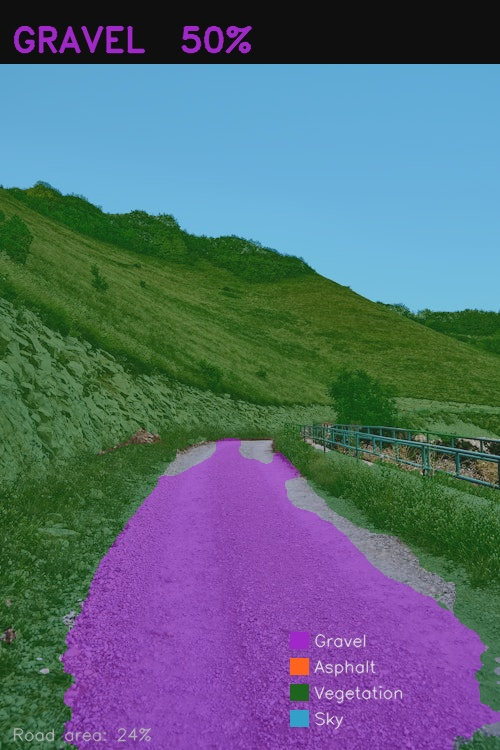
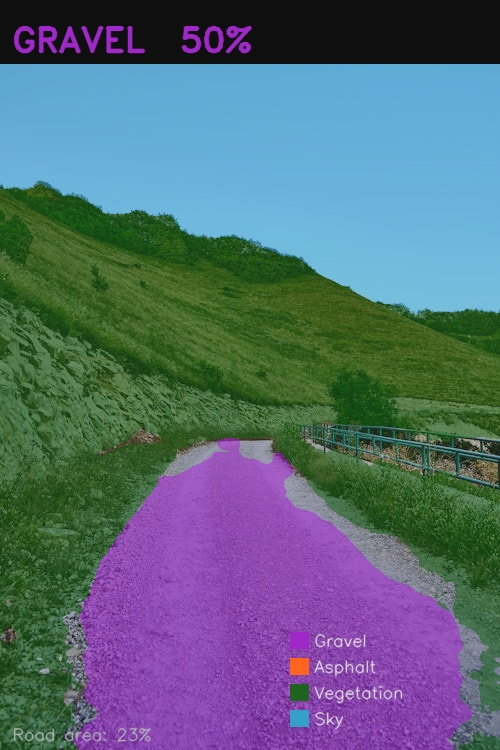
fix: 將 gradient_taper 改為 monotonic_taper 修正柏油路1視覺遮罩
- 以 monotonic_taper_mask 取代 gradient_taper_mask：從底部往上掃描，
  道路寬度只能遞減（符合透視原理），修正下雨天潮濕路面造成的矩形色塊問題
- 套用方式改為無條件：對已有自然漸縮的圖片幾乎無影響（差距 < 0.2%）
- 同步更新 asphalt_road_1 測試圖片與全部輸出結果

diff --git a/road_detection.py b/road_detection.py
@@ -86,35 +86,114 @@ def run_segformer(image_path, processor, model, device):
     return seg_map
 
 
-def _gradient_taper_mask(road_mask: np.ndarray, upper_cut: int,
-                          top_frac: float = 0.20) -> np.ndarray:
+def _monotonic_taper_mask(road_mask: np.ndarray, upper_cut: int,
+                           smooth_alpha: float = 0.3) -> np.ndarray:
     """
-    Create a perspective-tapered version of road_mask.
-    Each row keeps the same centre as the SegFormer mask, but the width
-    shrinks linearly from 100 % at the bottom to `top_frac` % at upper_cut.
+    Perspective-correct visual mask: scan bottom→top enforcing that road
+    half-width can only DECREASE (road narrows toward the vanishing point).
+    Center position is exponentially smoothed to follow gentle road curves.
 
-    This gives the natural 'vanishing road' look without relying on lane markings.
+    This naturally handles wide/flat SegFormer detections (e.g. wet roads
+    where SegFormer sees full-width road at every row) without producing
+    the rectangular artefact that a linear gradient taper creates.
     """
     H, W = road_mask.shape
-    tapered = np.zeros_like(road_mask)
+    result = np.zeros_like(road_mask)
 
-    for row in range(upper_cut, H):
+    prev_hw  = None        # previous half-width (None = not yet started)
+    prev_ctr = W / 2.0
+
+    for row in range(H - 1, upper_cut - 1, -1):       # bottom → top
         cols = np.where(road_mask[row])[0]
-        if len(cols) == 0:
+
+        if len(cols) < 10:
+            # No road pixels here; if already tracking, gently shrink
+            if prev_hw is not None:
+                prev_hw = max(5.0, prev_hw * 0.94)    # ~6 % narrower per row
+                x0 = max(0,     int(prev_ctr - prev_hw))
+                x1 = min(W - 1, int(prev_ctr + prev_hw))
+                result[row, x0:x1 + 1] = True
             continue
-        c_min, c_max = int(cols[0]), int(cols[-1])
-        center   = (c_min + c_max) / 2.0
-        half_w   = (c_max - c_min) / 2.0
 
-        # t = 0 at upper_cut (top), t = 1 at H-1 (bottom)
-        t = (row - upper_cut) / max(1, H - 1 - upper_cut)
-        taper_hw = half_w * (top_frac + (1.0 - top_frac) * t)
+        seg_hw  = (int(cols[-1]) - int(cols[0])) / 2.0
+        seg_ctr = (int(cols[0])  + int(cols[-1])) / 2.0
 
-        x0 = max(0,     int(center - taper_hw))
-        x1 = min(W - 1, int(center + taper_hw))
-        tapered[row, x0 : x1 + 1] = True
+        if prev_hw is None:
+            # Bottom-most valid road row — use SegFormer directly
+            curr_hw  = seg_hw
+            curr_ctr = seg_ctr
+        else:
+            # Monotonic constraint: width can only decrease going up
+            curr_hw  = min(seg_hw, prev_hw)
+            # Smooth center shift (allows gentle road curves)
+            curr_ctr = (1.0 - smooth_alpha) * prev_ctr + smooth_alpha * seg_ctr
 
-    return tapered & road_mask
+        x0 = max(0,     int(curr_ctr - curr_hw))
+        x1 = min(W - 1, int(curr_ctr + curr_hw))
+        result[row, x0:x1 + 1] = True
+        prev_hw  = curr_hw
+        prev_ctr = curr_ctr
+
+    return result & road_mask
+
+
+def _detect_red_line_bounds(bgr: np.ndarray, upper_cut: int) -> np.ndarray | None:
+    """
+    Detect red no-parking lines (台灣禁止停車紅線) and return a boolean mask
+    covering the area INSIDE the red lines (i.e. the road corridor they bound).
+
+    Red paint in HSV: H ∈ [0,12] ∪ [168,180], S > 80, V > 50.
+    The detected red pixels are dilated and used as a fill boundary so the
+    road mask stays within the lane delimited by the red kerb lines.
+
+    Returns None when no significant red lines are found.
+    """
+    H, W = bgr.shape[:2]
+    hsv = cv2.cvtColor(bgr, cv2.COLOR_BGR2HSV)
+
+    # Red wraps around H=0 in HSV
+    r1 = cv2.inRange(hsv, (0,   80, 50), (12,  255, 255))
+    r2 = cv2.inRange(hsv, (168, 80, 50), (180, 255, 255))
+    red = cv2.bitwise_or(r1, r2)
+
+    # Only consider road zone
+    red[:upper_cut] = 0
+
+    # Connect broken segments along horizontal / diagonal direction
+    kh = cv2.getStructuringElement(cv2.MORPH_RECT, (40, 3))
+    red = cv2.morphologyEx(red, cv2.MORPH_CLOSE, kh)
+
+    red_px = int(red.sum() / 255)
+    road_px = (H - upper_cut) * W
+
+    # Require meaningful coverage AND that red lines span multiple rows
+    red_bin = (red > 0)
+    active_rows = int(red_bin[upper_cut:].any(axis=1).sum())
+    if red_px < road_px * 0.015 or active_rows < 8:   # < 1.5 % or < 8 rows → ignore
+        return None
+
+    # Additional sanity: the red region must span at least 25 % image width
+    # (lane-boundary lines are long, not scattered small patches)
+    red_cols = np.where(red_bin.any(axis=0))[0]
+    if len(red_cols) == 0 or (red_cols[-1] - red_cols[0]) < W * 0.25:
+        return None
+
+    print(f"  [INFO] Red boundary lines detected ({red_px / road_px:.1%} of road zone)")
+
+    # Build "inside-lines" mask:
+    # For each row find the leftmost and rightmost red pixel;
+    # fill between them (those are the road lane bounds).
+    inside = np.zeros((H, W), dtype=np.uint8)
+    for row in range(upper_cut, H):
+        cols = np.where(red_bin[row])[0]
+        if len(cols) < 2:
+            continue
+        inside[row, int(cols[0]) : int(cols[-1]) + 1] = 1
+
+    # Fill vertically: propagate non-zero rows downward/upward using dilation
+    kv = cv2.getStructuringElement(cv2.MORPH_RECT, (1, 15))
+    inside = cv2.dilate(inside, kv)
+    return inside.astype(bool)
 
 
 def _hough_road_polygon(bgr, upper_cut: int) -> np.ndarray | None:
@@ -244,19 +323,16 @@ def make_class_masks(seg_map, bgr):
         road_mask[int(H * 0.5):, int(W * 0.1):int(W * 0.9)] = True
         print("  [WARN] sparse road mask – applied centre-bottom fallback")
 
-    # ── visual mask: use Hough polygon only when SegFormer over-detects ─────
-    # For normal images (coverage ≤ 45 %) keep the SegFormer shape as-is.
-    # For wide/flat over-detections (coverage > 45 %) apply a Hough polygon
-    # so the road tapers naturally toward the vanishing point.
+    # ── visual mask: monotonic taper (always) ────────────────────────────────
+    # Enforce that road width can only DECREASE going toward the vanishing point.
+    # When SegFormer already has a natural taper this is a no-op; when it
+    # over-detects wide flat bands (e.g. wet/reflective roads) the taper
+    # corrects the shape without affecting texture-based classification.
+    road_vis_mask = _monotonic_taper_mask(road_mask, upper_cut)
     seg_cov = road_mask.sum() / road_mask.size
-    if seg_cov > 0.45:
-        # SegFormer over-detected: apply gradient taper so the road
-        # narrows naturally toward the vanishing point.
-        road_vis_mask = _gradient_taper_mask(road_mask, upper_cut, top_frac=0.15)
-        new_cov = road_vis_mask.sum() / road_vis_mask.size
-        print(f"  [INFO] coverage high ({seg_cov:.0%}) → gradient taper applied ({new_cov:.0%})")
-    else:
-        road_vis_mask = road_mask.copy()   # SegFormer shape is fine
+    vis_cov = road_vis_mask.sum() / road_vis_mask.size
+    if abs(seg_cov - vis_cov) > 0.02:       # only log when there's a real change
+        print(f"  [INFO] monotonic taper: {seg_cov:.0%} → {vis_cov:.0%}")
 
     return sky_mask, veg_mask, road_mask, road_vis_mask
 
